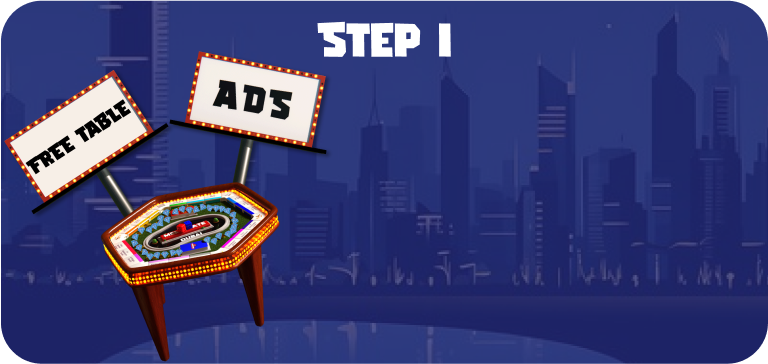
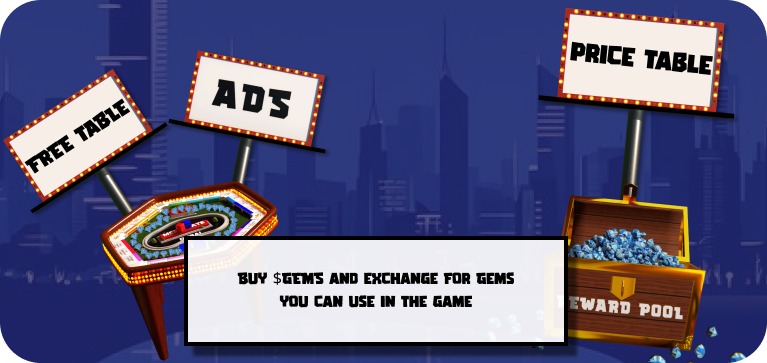
Update

diff --git a/src/utils/index.jsx b/src/utils/index.jsx
@@ -43,24 +43,34 @@ export const carouselItems = [
 export const howToPlay = [
   <div key={"1"} className=" h-full ">
     <div className="flex flex-col items-center justify-between h-full">
-      <h1 className="text-[48px] font-normal text-white">STEP 1</h1>
-      <div className="border-4 border-black bg-white shadow-black-custom w-[380px]">
-        <p className="text-black py-2 px-3 text-center">
-          You have 2 choices...Play the free game and win some $GEMS token OR
-          get some $GEMS token and put them on the line and win big
-        </p>
-      </div>
+      <h1 className="text-[48px] font-normal text-white absolute w-full text-center">
+        STEP 1
+      </h1>
+      <img src="./images/step1.png" alt="" />
     </div>
   </div>,
   <div key={"2"} className=" h-full">
     <div className="flex flex-col items-center justify-between h-full">
-      <h1 className="text-[48px] font-normal text-white">STEP 2</h1>
-      <div className="border-4 border-black bg-white shadow-black-custom w-[380px] py-2 px-3">
-        <p className="text-black text-center">
-          Buy $GEMS and exchange for Gems you can use in the game
-        </p>
-        e
-      </div>
+      <h1 className="text-[48px] font-normal text-white absolute w-full text-center">
+        STEP 2
+      </h1>
+      <img src="./images/step2.png" alt="" />
+    </div>
+  </div>,
+  <div key={"3"} className=" h-full">
+    <div className="flex flex-col items-center justify-between h-full">
+      <h1 className="text-[48px] font-normal text-white absolute w-full text-center">
+        STEP 3
+      </h1>
+      <img src="./images/step3.png" alt="" />
+    </div>
+  </div>,
+  <div key={"4"} className=" h-full">
+    <div className="flex flex-col items-center justify-between h-full">
+      <h1 className="text-[48px] font-normal text-white absolute w-full text-center">
+        STEP 4
+      </h1>
+      <img src="./images/step4.png" alt="" />
     </div>
   </div>,
 ];

diff --git a/src/component/HowToPlay/HowToPlay.jsx b/src/component/HowToPlay/HowToPlay.jsx
@@ -43,7 +43,7 @@ const HowToPlay = ({ items }) => {
         <div>
           <button
             onClick={handlePrevious}
-            className={` hidden md:flex text-2xl font-normal text-white capitalize bg-[#FF0000] border-[3px] border-black  rounded-full w-[58px] h-[58px]  flex justify-center items-center transition-all transform ${
+            className={` hidden md:flex text-2xl font-normal text-white capitalize bg-[#FF0000] border-[3px] border-black  rounded-full w-[58px] h-[58px]   justify-center items-center transition-all transform ${
               clickedPrevious ? "scale-95" : ""
             }`}
             style={{ boxShadow: "8px 8px 0px 0px #000000" }}
@@ -52,9 +52,9 @@ const HowToPlay = ({ items }) => {
           </button>
         </div>
         <div className="relative overflow-hidden">
-          <div className="absolute top-[15%] w-full lg:h-[300px] h-[unset] ">
+          <div className="absolute top-[12%] w-full lg:h-[300px] h-[unset] ">
             <div
-              className={`carousel-items flex transition-transform duration-500 ease-in-out w-full h-full ${
+              className={`carousel-items flex transition-transform duration-500 ease-in-out w-full ${
                 direction === "next" ? "transform translate-x-[-100%]" : ""
               }`}
               style={{
